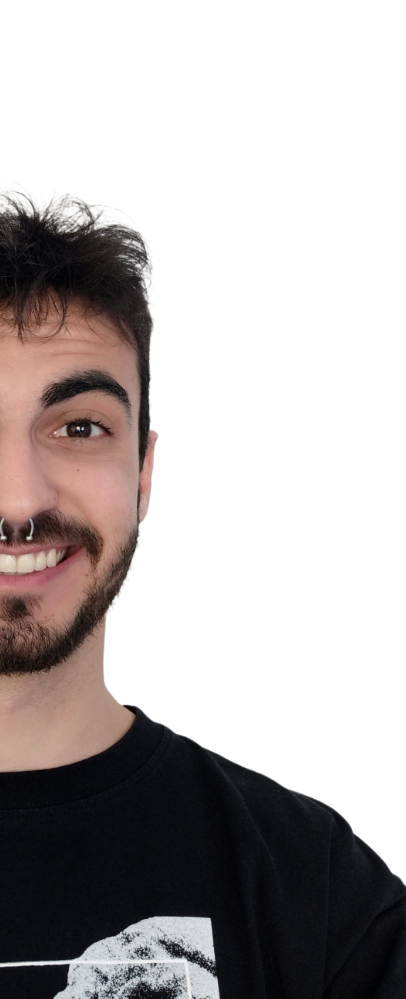
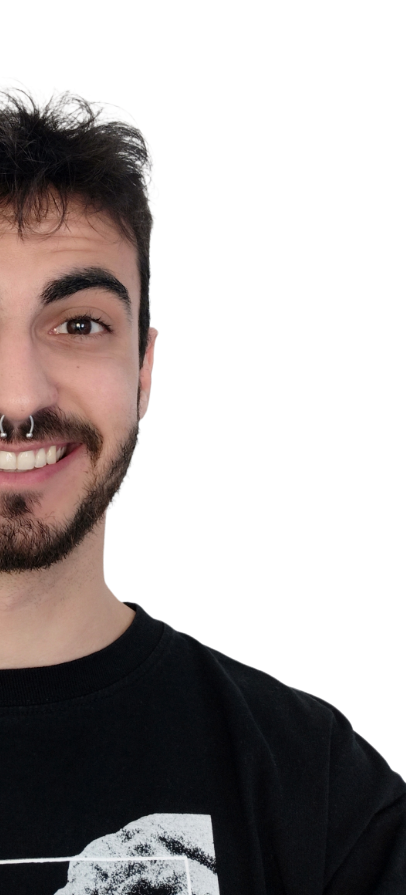
Home section finished

Changed region(s): [[0.0, 0.0905, 1.0, 0.905], [0.0, 0.905, 0.532, 1.0], [0.1182, 0.9955, 0.1478, 1.0]]

diff --git a/css/style.css b/css/style.css
@@ -79,6 +79,11 @@ h1 {
   font-weight: 400;
   letter-spacing: 2px;
 }
+@media screen and (min-width: 1024px) {
+  h1 {
+    font-size: 50px;
+  }
+}
 
 h2 {
   font-size: 20px;
@@ -86,6 +91,11 @@ h2 {
   font-weight: 400;
   letter-spacing: 2px;
   padding: 8px;
+}
+@media screen and (min-width: 1024px) {
+  h2 {
+    font-size: 35px;
+  }
 }
 
 @-webkit-keyframes flicker {
@@ -179,18 +189,23 @@ header {
           transform: translateX(300%);
 }
 
-.container2d__sections__home {
-  gap: 20px;
-}
-.container2d__sections__home img {
+.container2d__sections__home__img {
   width: 110px;
   height: 240px;
 }
-.container2d__sections__home section {
-  padding: 16px;
+.container2d__sections__home--top {
+  gap: 30px;
+}
+.container2d__sections__home--top .top--img {
+  border-right: 2px white solid;
+  background-image: url("../img/imgizquierda2.png");
+  background-repeat: no-repeat;
+  background-size: contain;
+  background-position: top right;
 }
 .container2d__sections__home--top__text {
   height: 130px;
+  padding: 8px;
 }
 .container2d__sections__home--top__text h1:nth-child(n) {
   text-shadow: 0 0 4px #fff, 0 0 11px #fff, 0 0 40px #FDC23E, 0 0 80px #FDC23E;
@@ -201,8 +216,34 @@ header {
   -webkit-animation: flicker 5s cubic-bezier(0.21, 1.01, 1, 0.9) infinite;
           animation: flicker 5s cubic-bezier(0.21, 1.01, 1, 0.9) infinite;
 }
+.container2d__sections__home--bottom {
+  gap: 15px;
+}
 .container2d__sections__home--bottom__text {
   height: 130px;
+  padding: 8px;
+}
+.container2d__sections__home--bottom .bottom--img {
+  border-left: 2px white solid;
+  background-image: url("../img/imgderecha2.png");
+  background-repeat: no-repeat;
+  background-size: contain;
+  background-position: top left;
+}
+@media screen and (min-width: 1024px) {
+  .container2d__sections__home--top, .container2d__sections__home--bottom {
+    width: 850px;
+    gap: 75px;
+  }
+  .container2d__sections__home--bottom {
+    -webkit-box-pack: right;
+        -ms-flex-pack: right;
+            justify-content: right;
+  }
+  .container2d__sections__home__img {
+    width: 140px;
+    height: 270px;
+  }
 }
 
 .menu {

diff --git a/index.html b/index.html
@@ -23,22 +23,22 @@
 
         <div class="container2d">
             <section class="container2d__sections flex">
-                <section class="container2d__sections__section container2d__sections__home flex flex-column justify-center">
-                    <section class="container2d__sections__home--top flex justify-center align-center">
-                        <img src="img/imgizquierda2.png" alt="">
+                <section class="container2d__sections__section container2d__sections__home flex flex-column justify-center align-center">
+                    <section class="container2d__sections__home--top flex align-center">
+                        <div class="container2d__sections__home__img top--img"></div>
                         <section class="container2d__sections__home--top__text flex flex-column justify-center">
                             <h1>SALVADOR</h1>
                             <h1>PUCHE</h1>
                             <h1>IBÁÑE<span>Z</span></h1>
                         </section>
                     </section>
-                    <section class="container2d__sections__home--bottom flex justify-center align-center">
+                    <section class="container2d__sections__home--bottom flex align-center">
                         <section class="container2d__sections__home--bottom__text flex flex-column justify-center text-right">
                             <h2>Electronic engineer</h2>
                             <h2>Front-end Developer</h2>
                             <h2>UX/UI Designer</h2>
                         </section>
-                        <img src="img/imgderecha2.png" alt="">
+                        <div class="container2d__sections__home__img bottom--img"></div>
                     </section>
                 </section>
                 <section class="container2d__sections__section container2d__sections__about" id="about">

diff --git a/scss/components/_home.scss b/scss/components/_home.scss
@@ -1,18 +1,25 @@
 .container2d__sections__home {
-    gap: 20px;
 
-    img {
+    &__img {
         width: 110px;
         height: 240px;
     }
 
-    section {
-        padding: $space;
-    }
-
     &--top {
+        gap: 30px;
+
+        .top--img {
+            border-right: 2px $white solid;
+            background-image: url("../img/imgizquierda2.png");
+            background-repeat: no-repeat;
+            background-size: contain;
+            background-position: top right;
+        }
+
         &__text {
             height: 130px;
+            padding: $padding;
+
             & h1:nth-child(n) {
                 text-shadow:
                     0 0 4px #fff,
@@ -29,8 +36,36 @@
     }
 
     &--bottom {
+        gap: 15px;
+
         &__text {
             height: 130px;
+            padding: $padding;
+        }
+
+        .bottom--img {
+            border-left: 2px $white solid;
+            background-image: url("../img/imgderecha2.png");
+            background-repeat: no-repeat;
+            background-size: contain;
+            background-position: top left;
+        }
+    }
+
+    @media screen and (min-width: 1024px) {
+
+        &--top, &--bottom {
+            width: 850px;
+            gap: 75px;
+        }
+
+        &--bottom {
+            justify-content: right;
+        }
+
+        &__img {
+            width: 140px;
+            height: 270px;
         }
     }
 }

diff --git a/scss/lib/_typography.scss b/scss/lib/_typography.scss
@@ -3,6 +3,10 @@ h1 {
     font-family: 'Archivo Black', sans-serif;
     font-weight: 400;
     letter-spacing: $letter--space;
+
+    @media screen and (min-width: 1024px) {
+        font-size: 50px;
+    }
 }
 
 h2 {
@@ -11,6 +15,10 @@ h2 {
     font-weight: 400;
     letter-spacing: $letter--space;
     padding: $padding;
+
+    @media screen and (min-width: 1024px) {
+        font-size: 35px;
+    }
 }
 
 @keyframes flicker {
